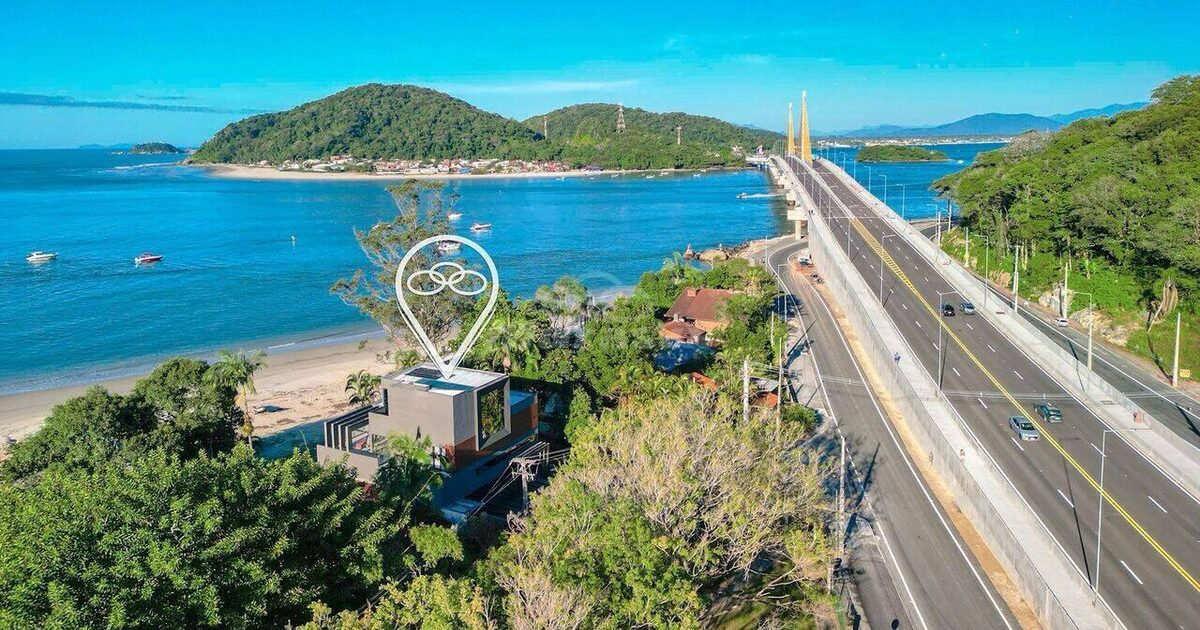
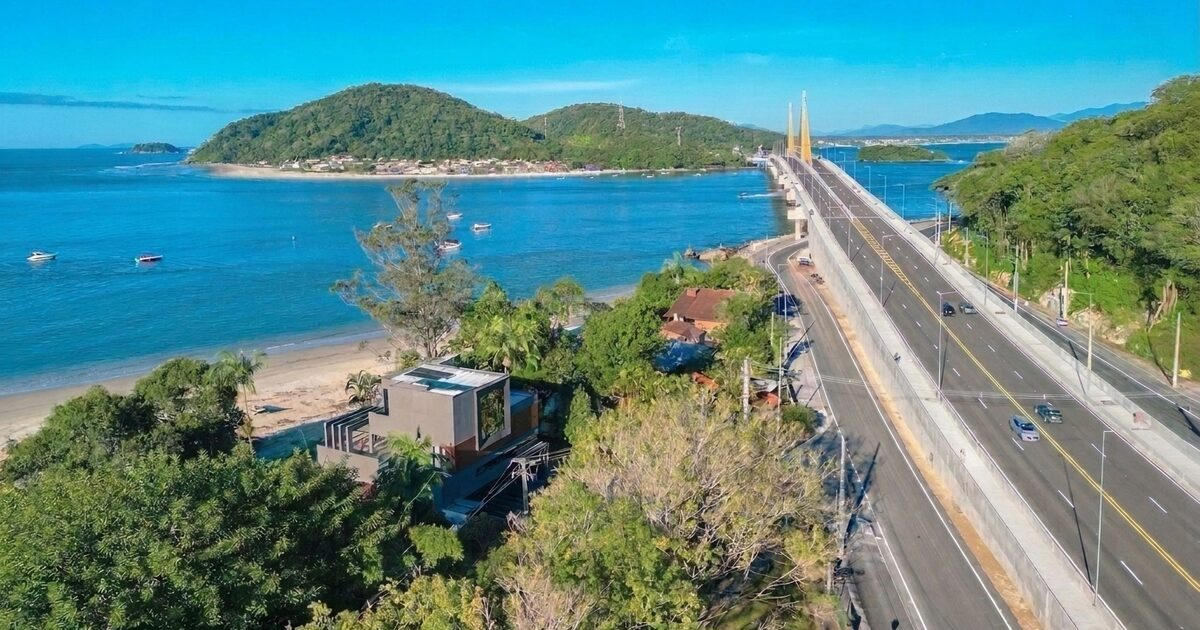
refactor: update property images to clean assets
Update hero and section images in propertyData.ts to use the cleaned asset paths for improved asset management.

diff --git a/src/content/propertyData.ts b/src/content/propertyData.ts
@@ -13,7 +13,7 @@ export const BROKER_CONFIG = {
 };
 
 export const HERO_MEDIA = {
-  image: '/assets/aistudio/WhatsApp_Image_2026-11-14_at_09.52.02__1__e28c8826.jpeg',
+  image: '/assets/clean/hero-aerial.jpg',
   alt: 'Vista aérea real da mansão pé na areia ao lado da Ponte de Guaratuba, com vista panorâmica para a Baía de Guaratuba e oceano',
 };
 
@@ -53,7 +53,7 @@ export const GALLERY_ITEMS: GalleryItem[] = [
     subtitle: 'Vista Aérea Real · Pé na Areia · Baía e Mar',
     description:
       'Implantação exclusiva à beira-mar com 1.100 m² de área construída, vista definitiva para a baía e acesso imediato junto à Ponte de Guaratuba.',
-    image: '/assets/aistudio/WhatsApp_Image_2026-11-14_at_09.52.10__3__d03c5370.jpeg',
+    image: '/assets/clean/aerea-ponte.jpg',
     alt: 'Foto aérea real mostrando a mansão à beira-mar exatamente ao lado da Ponte de Guaratuba',
   },
   {
@@ -63,7 +63,7 @@ export const GALLERY_ITEMS: GalleryItem[] = [
     subtitle: 'Grafite, Madeira Natural & Envidraçamento Panorâmico',
     description:
       'Volumetria em três pavimentos com guarda-corpos em vidro, varandas escalonadas, fechamento em vidro retrátil e gramado com saída direta para a areia.',
-    image: '/assets/aistudio/WhatsApp_Image_2026-11-14_at_09.52.06__3__4ebc098e.jpeg',
+    image: '/assets/clean/fachada-mar.jpg',
     alt: 'Fachada voltada para o mar da mansão em grafite, madeira e vidro com gramado frontal',
   },
   {
@@ -73,7 +73,7 @@ export const GALLERY_ITEMS: GalleryItem[] = [
     subtitle: 'Entrada Social Imponente · Paisagismo & Controle de Acesso',
     description:
       'Entrada principal com revestimento em textura grafite, painel em madeira natural, amplo recuo pavimentado e janela panorâmica em vidro espelhado.',
-    image: '/assets/aistudio/WhatsApp_Image_2026-11-14_at_09.52.09__3__0a1aa677.jpeg',
+    image: '/assets/clean/fachada-rua.jpg',
     alt: 'Fachada frontal da mansão com acabamento grafite, painel ripado e esquadria espelhada',
   },
   {
@@ -83,7 +83,7 @@ export const GALLERY_ITEMS: GalleryItem[] = [
     subtitle: 'Deck Solarium · Vista Direta para a Praia',
     description:
       'Piscina privativa com perfil linear de LED embutido, guarda-corpo em vidro para preservar o horizonte marinho e espreguiçadeiras voltadas para o oceano.',
-    image: '/assets/aistudio/WhatsApp_Image_2026-11-14_at_09.52.05_917b601f.jpeg',
+    image: '/assets/clean/piscina-praia.jpg',
     alt: 'Piscina privativa com iluminação em LED, espreguiçadeiras e vista direta para o mar',
   },
   {
@@ -93,7 +93,7 @@ export const GALLERY_ITEMS: GalleryItem[] = [
     subtitle: 'Pergolado em Grafite · Vista Mar e Serra do Mar',
     description:
       'Terraço de contemplação no pavimento superior com balanços suspensos em corda náutica, mesa lareira e vista para as montanhas e oceano.',
-    image: '/assets/aistudio/WhatsApp_Image_2026-11-14_at_09.52.01__3__a7b59ba4.jpeg',
+    image: '/assets/clean/terrace-balancos.jpg',
     alt: 'Terraço superior com vigas em grafite, balanços suspensos e lareira externa',
   },
 
@@ -105,7 +105,7 @@ export const GALLERY_ITEMS: GalleryItem[] = [
     subtitle: 'Varanda Gourmet Integrada · LED Linear no Teto',
     description:
       "Área de convivência coberta contornada por espelho d'água cristalino com pisantes flutuantes em travertino, colunas em grafite e vista livre para a praia.",
-    image: '/assets/aistudio/WhatsApp_Image_2026-11-14_at_09.52.01__1__679481b0.jpeg',
+    image: '/assets/clean/espelho-dagua-mar.jpg',
     alt: "Varanda coberta com espelho d'água, pisantes em pedra e vista direta para a praia",
   },
   {
@@ -115,7 +115,7 @@ export const GALLERY_ITEMS: GalleryItem[] = [
     subtitle: 'Pé-Direito Duplo · Forro Ripado e Perfis de LED',
     description:
       'Ambiente integrado com escadaria flutuante iluminada em LED, guarda-corpo em vidro estrutural, forro amadeirado ripado e hidromassagem interna.',
-    image: '/assets/aistudio/WhatsApp_Image_2026-11-14_at_09.51.55_f073fa58.jpeg',
+    image: '/assets/clean/living-escadaria-hidro.jpg',
     alt: 'Living social com escadaria flutuante iluminada, forro ripado e hidro interna',
   },
   {
@@ -125,7 +125,7 @@ export const GALLERY_ITEMS: GalleryItem[] = [
     subtitle: 'Panorâmica Piso-Teto · Conexão Total Interno/Externo',
     description:
       'Spa interno aquecido posicionado junto às esquadrias piso-teto com vista direta para a piscina externa e a faixa de areia de Guaratuba.',
-    image: '/assets/aistudio/WhatsApp_Image_2026-11-14_at_09.52.04_1bd99fd6.jpeg',
+    image: '/assets/clean/hidro-vista-piscina.jpg',
     alt: 'Hidro spa interno com vista através do vidro para a piscina externa e o mar',
   },
   {
@@ -135,7 +135,7 @@ export const GALLERY_ITEMS: GalleryItem[] = [
     subtitle: 'Conceito Aberto Frente Mar · Mármore e Marcenaria Fendi',
     description:
       'Amplo living em tons fendi e off-white com mesa de jantar para 10 lugares, elevador privativo revestido em mármore e adega climatizada com portas em vidro.',
-    image: '/assets/aistudio/WhatsApp_Image_2026-11-14_at_09.52.13__1__21841080.jpeg',
+    image: '/assets/clean/living-adega-elevador.jpg',
     alt: 'Sala de jantar e estar integradas com adega climatizada, elevador e vista para o mar',
   },
   {
@@ -145,7 +145,7 @@ export const GALLERY_ITEMS: GalleryItem[] = [
     subtitle: 'Parrilla, Cervejeiras e Garrafeiro Suspenso Frente Mar',
     description:
       'Lounge gourmet completo com bancada em pedra escura, chopeira integrada, parrilla revestida em mármore escuro, adegas e vista frontal para o mar.',
-    image: '/assets/aistudio/WhatsApp_Image_2026-11-14_at_09.52.05__1__495ccf8d.jpeg',
+    image: '/assets/clean/espaco-gourmet-bar.jpg',
     alt: 'Espaço gourmet e bar completo com chopeira, garrafeiro suspenso e vista para o mar',
   },
   {
@@ -155,7 +155,7 @@ export const GALLERY_ITEMS: GalleryItem[] = [
     subtitle: 'Automação & Linha Profissional Embutida',
     description:
       'Cozinha planejada com ilha central em mármore branco, cooktop e chapa embutidos, fornos em inox e refrigerador smart integrado ao jantar.',
-    image: '/assets/aistudio/WhatsApp_Image_2026-11-14_at_09.52.10_40dc8218.jpeg',
+    image: '/assets/clean/cozinha-gourmet.jpg',
     alt: 'Cozinha gourmet em tons claros com ilha de mármore e eletrodomésticos em inox',
   },
 
@@ -167,7 +167,7 @@ export const GALLERY_ITEMS: GalleryItem[] = [
     subtitle: 'Fibra Óptica · Projetor HD · Sofá Modular Profundo',
     description:
       'Sala de cinema dedicada com isolamento acústico completo, teto estrelado em fibra óptica com iluminação azul cênica e projetor de alta definição.',
-    image: '/assets/aistudio/WhatsApp_Image_2026-11-14_at_09.52.00_e89c2932.jpeg',
+    image: '/assets/clean/home-cinema-teto.jpg',
     alt: 'Home cinema privativo com teto estrelado azul, projetor e sofá modular amplo',
   },
   {
@@ -177,7 +177,7 @@ export const GALLERY_ITEMS: GalleryItem[] = [
     subtitle: 'Sistema Surround · Automação de Cenas',
     description:
       'Ângulo voltado para a tela de projeção de grande formato com caixas acústicas dedicadas, painel ripado lateral e climatização silenciosa.',
-    image: '/assets/aistudio/WhatsApp_Image_2026-11-14_at_09.52.05__4__f81c8b16.jpeg',
+    image: '/assets/clean/home-cinema-tela.jpg',
     alt: 'Vista da tela de cinema, equipamento de áudio e teto estrelado do home theater',
   },
   {
@@ -187,7 +187,7 @@ export const GALLERY_ITEMS: GalleryItem[] = [
     subtitle: 'Equipamentos Profissionais · Vista Panorâmica',
     description:
       'Espaço fitness completo com estação multifuncional, esteira, pesos livres, parede espelhada e janelas panorâmicas voltadas para o oceano e a serra.',
-    image: '/assets/aistudio/WhatsApp_Image_2026-11-14_at_09.52.10__1__2404e132.jpeg',
+    image: '/assets/clean/academia-frente-mar.jpg',
     alt: 'Academia privativa equipada com aparelhos profissionais e vista para o mar',
   },
 
@@ -199,7 +199,7 @@ export const GALLERY_ITEMS: GalleryItem[] = [
     subtitle: 'Terraço Privativo · Integração com Hidro & Home Office',
     description:
       'Suíte principal de altíssimo padrão com cama king, TV motorizada embutida no forro, rede de descanso voltada para a praia e bancada de escritório.',
-    image: '/assets/aistudio/WhatsApp_Image_2026-11-14_at_09.52.09_19b03c98.jpeg',
+    image: '/assets/clean/suite-master-panoramica.jpg',
     alt: 'Suíte master ampla com cama king, TV retrátil no teto, rede e vista para o mar',
   },
   {
@@ -209,7 +209,7 @@ export const GALLERY_ITEMS: GalleryItem[] = [
     subtitle: 'Banheira de Hidromassagem · Chaise Lounge',
     description:
       'Área íntima de relaxamento dentro da suíte master equipada com banheira de hidromassagem elevada, forro com vigas amadeiradas e varanda frente mar.',
-    image: '/assets/aistudio/WhatsApp_Image_2026-11-14_at_09.52.10__2__8e0bbae6.jpeg',
+    image: '/assets/clean/suite-master-hidro.jpg',
     alt: 'Banheira de hidromassagem na suíte master com chaise laranja e vista para o mar',
   },
   {
@@ -219,7 +219,7 @@ export const GALLERY_ITEMS: GalleryItem[] = [
     subtitle: 'Portas em Espelho Piso-Teto · Iluminação Linear LED',
     description:
       'Closet espaçoso com armários espelhados do chão ao teto, gaveteiro central tipo ilha, carpete macio e entrada de luz natural.',
-    image: '/assets/aistudio/WhatsApp_Image_2026-11-14_at_09.52.02_d86fdc47.jpeg',
+    image: '/assets/clean/closet-ilha.jpg',
     alt: 'Closet amplo com armários espelhados, ilha central de gavetas e iluminação LED',
   },
   {
@@ -229,7 +229,7 @@ export const GALLERY_ITEMS: GalleryItem[] = [
     subtitle: 'Espelho Camarim · Armários em Vidro Armado',
     description:
       'Espaço exclusivo anexo ao closet com penteadeira ampla e espelho com moldura iluminada em LED, poltrona clássica e armários com iluminação interna.',
-    image: '/assets/aistudio/WhatsApp_Image_2026-11-14_at_09.52.06__1__5be49f44.jpeg',
+    image: '/assets/clean/closet-camarinha.jpg',
     alt: 'Camarinha da suíte master com penteadeira iluminada em LED e cômoda planejada',
   },
   {
@@ -239,7 +239,7 @@ export const GALLERY_ITEMS: GalleryItem[] = [
     subtitle: 'Box em Vidro com Perfil Dourado · Mármore Calacatta',
     description:
       'Banheiro da suíte master revestido em porcelanato marmorizado com bancada dupla, marcenaria escura, espelhos bisotados e box com acabamento dourado.',
-    image: '/assets/aistudio/WhatsApp_Image_2026-11-14_at_09.52.07_925e68ea.jpeg',
+    image: '/assets/clean/banho-master.jpg',
     alt: 'Banheiro master com duas cubas, marcenaria grafite e box com perfil dourado',
   },
   {
@@ -249,7 +249,7 @@ export const GALLERY_ITEMS: GalleryItem[] = [
     subtitle: 'Mural Basquete Exclusivo · Luminária Aro & Iluminação LED',
     description:
       'Suíte climatizada com painel artístico esportivo personalizado na cabeceira, luminária temática, cortinas com sanca iluminada e marcenaria sob medida.',
-    image: '/assets/aistudio/WhatsApp_Image_2026-11-14_at_09.52.03__3__e2e0b23e.jpeg',
+    image: '/assets/clean/suite-esportiva.jpg',
     alt: 'Suíte temática jovem esportiva com mural de basquete, luminária de cesta e TV',
   },
   {
@@ -259,7 +259,7 @@ export const GALLERY_ITEMS: GalleryItem[] = [
     subtitle: 'Marcenaria Lúdica Sob Medida · Armário Espelhado',
     description:
       'Dormitório planejado com cama beliche, escorregador em madeira clara, mural temático espacial, bancada de estudos e armários espelhados.',
-    image: '/assets/aistudio/WhatsApp_Image_2026-11-14_at_09.52.06_1c3ec661.jpeg',
+    image: '/assets/clean/suite-infantil-espacial.jpg',
     alt: 'Suíte infantil temática espacial com beliche em madeira, escorregador e closet espelhado',
   },
 
@@ -271,7 +271,7 @@ export const GALLERY_ITEMS: GalleryItem[] = [
     subtitle: 'Paredes em Grafite · Piso em Porcelanato Amadeirado',
     description:
       'Amplo pátio e garagem coberta por estrutura metálica e vidro temperado, perfis verticais de LED e portão automatizado em tom grafite.',
-    image: '/assets/aistudio/WhatsApp_Image_2026-11-14_at_09.52.03_cb09f89f.jpeg',
+    image: '/assets/clean/garagem-pergola-vidro.jpg',
     alt: 'Garagem coberta com cobertura em vidro e estrutura metálica escura e piso amadeirado',
   },
   {
@@ -281,7 +281,7 @@ export const GALLERY_ITEMS: GalleryItem[] = [
     subtitle: 'Múltiplas Vagas · Acesso Direto da Rua à Orla',
     description:
       'Garagem de grande porte comportando múltiplos veículos e SUVs com área coberta fechada, iluminação embutida e circulação direta até a área de lazer.',
-    image: '/assets/aistudio/WhatsApp_Image_2026-11-14_at_09.52.02__2__4dada8f0.jpeg',
+    image: '/assets/clean/garagem-acesso-mar.jpg',
     alt: 'Vista ampla da garagem coberta com dupla área de estacionamento e corredor para o mar',
   },
 ];
